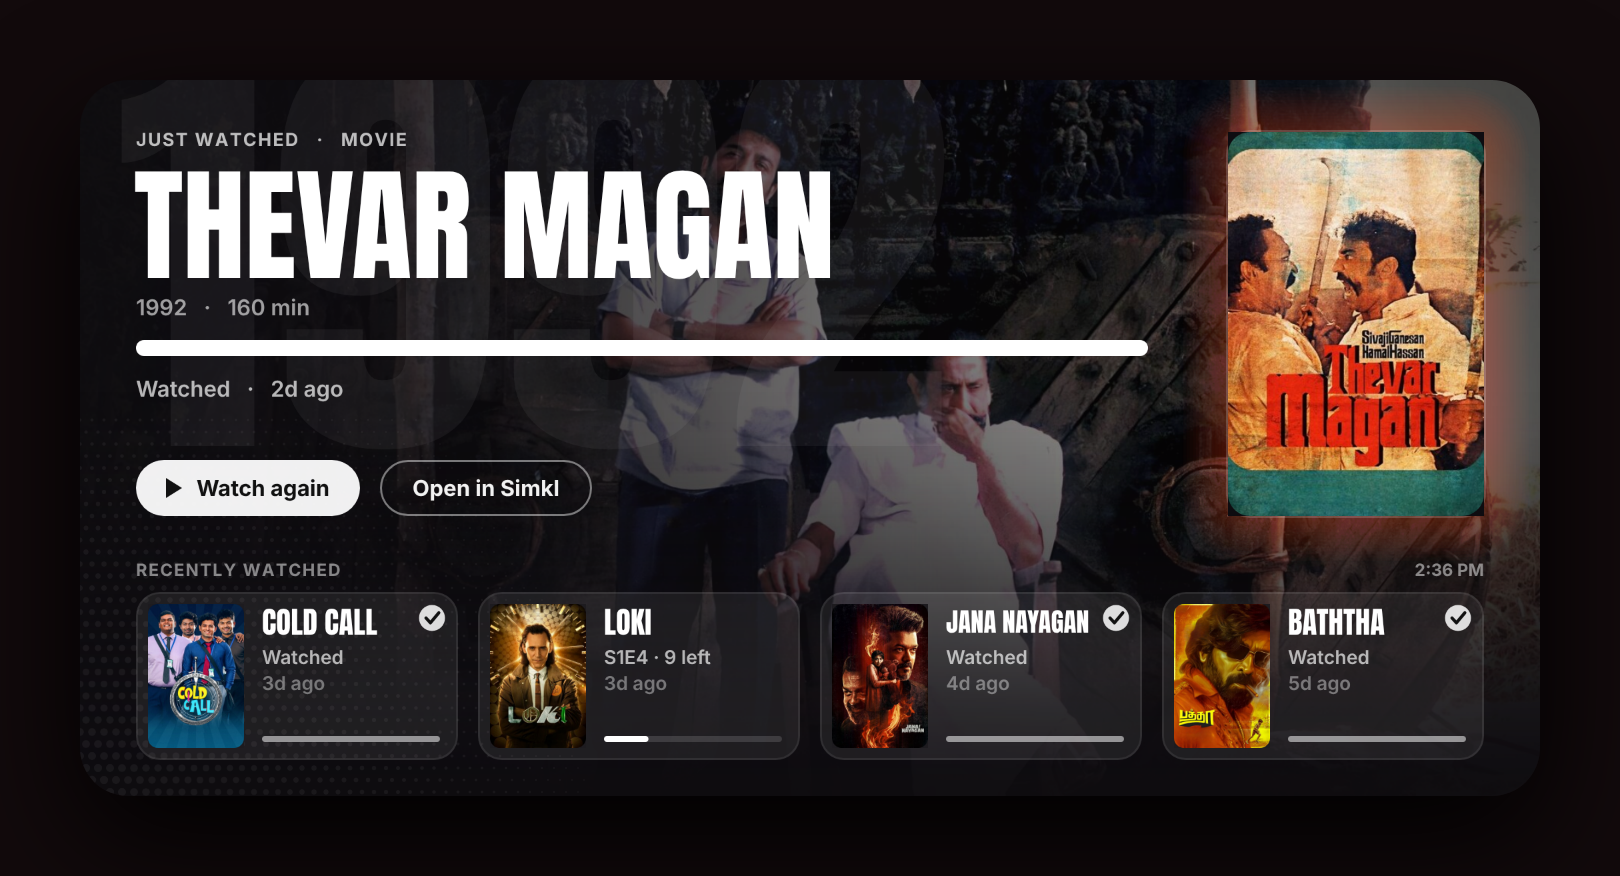
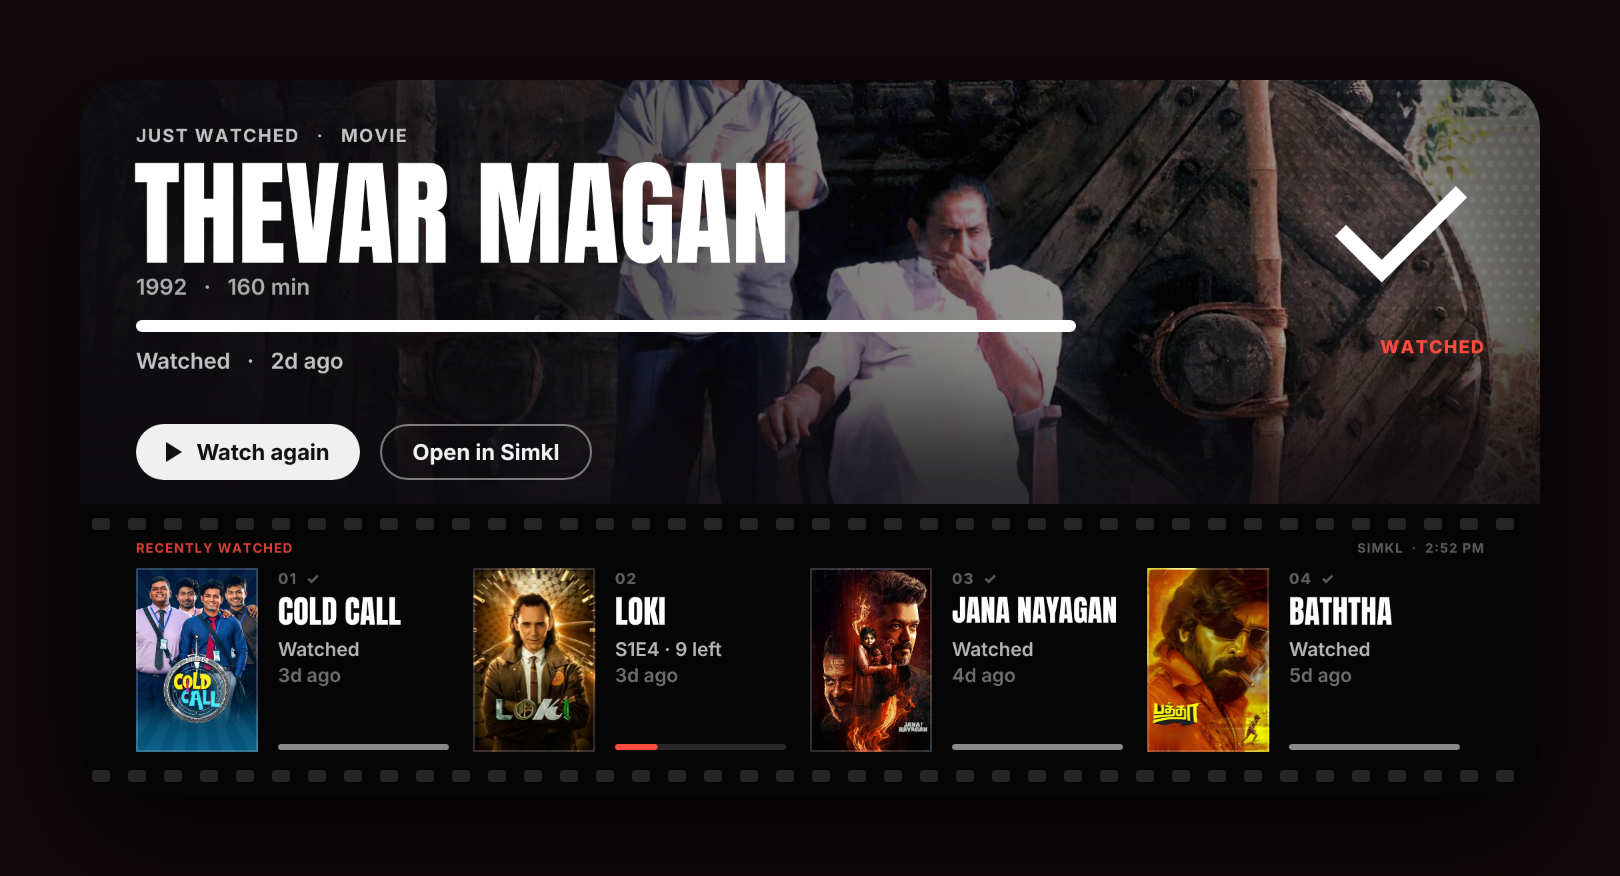
Simkl Big wide: film-strip redesign; Manga Big: square Mac layout with cover cards
Simkl: the backdrop is the hero with a giant % on the right, and recently
watched runs along a film strip (sprocket holes, numbered frames). Posters have
hard edges now: Scriptable can't clip, and faked rounded corners showed as dark
wedges over the backdrop. Manga: the Mac draws large widgets square, which
cropped the Read button; the Mac now gets a 364x364 layout, the button sits by
the release rhythm, and the other series are full cover cards.

Claude-Session: https://claude.ai/code/session_01PXGdQy46T6wRnRrF1gL8cR

diff --git a/scriptable/Simkl Big.js b/scriptable/Simkl Big.js
@@ -220,9 +220,11 @@ function drawBackdrop(ctx, hero, w, heroH, fadeFrom) {
 }
 
 function drawPoster(ctx, img, x, y, w, h) {
-  rounded(ctx, x - 1, y - 1, w + 2, h + 2, 11, white(0.14));
-  if (img) { CORNER_BG = col(BG); ctx.drawImageInRect(cover(img, w, h, 10, 0.3), new Rect(x, y, w, h)); }
-  else rounded(ctx, x, y, w, h, 10, col("#2a2630"));
+  // hard edges: Scriptable can't clip, and faked rounded corners show as dark wedges over the backdrop
+  ctx.setFillColor(col("#000000", 0.35)); ctx.fillRect(new Rect(x + 3, y + 5, w, h));
+  if (img) ctx.drawImageInRect(cover(img, w, h, 0, 0.3), new Rect(x, y, w, h));
+  else { ctx.setFillColor(col("#2a2630")); ctx.fillRect(new Rect(x, y, w, h)); }
+  ctx.setStrokeColor(white(0.22)); ctx.setLineWidth(1); ctx.strokeRect(new Rect(x + 0.5, y + 0.5, w - 1, h - 1));
 }
 
 function drawKicker(ctx, hero, x, y) {
@@ -350,7 +352,7 @@ function drawLarge(hero, rows, updated) {
   return ctx.getImage();
 }
 
-// ---------- EXTRA LARGE ~730 × 358 (wide; Mac desktop / iPad) — poster style ----------
+// ---------- EXTRA LARGE ~730 × 358 (wide; Mac desktop / iPad) — film strip ----------
 const XW = 730, XH = 358, XPAD = 28;
 const DISPLAY = "Futura-CondensedExtraBold";        // poster type (built into iOS)
 const display = (size) => new Font(DISPLAY, size);
@@ -400,107 +402,104 @@ function drawXL(hero, rows, updated) {
   const ctx = newCtx(XW, XH);
   ctx.opaque = true;
   ctx.setFillColor(col(BG)); ctx.fillRect(new Rect(0, 0, XW, XH));
+  const STRIP_Y = 212;
 
-  // full-bleed backdrop, dark on the left and along the bottom
+  // the backdrop is the hero: full bleed, drawn straight in (the canvas edge crops it)
   if (hero.backdrop) {
-    // full-bleed, drawn straight in: the canvas edge crops it, so no second full-size copy (memory)
-    const b = hero.backdrop, sc = Math.max(XW / b.size.width, XH / b.size.height), dw = b.size.width * sc, dh = b.size.height * sc;
-    ctx.drawImageInRect(b, new Rect((XW - dw) / 2, (XH - dh) * (hero.fanartReal ? 0.6 : 0.35), dw, dh));
-    ctx.setFillColor(col(BG, 0.32)); ctx.fillRect(new Rect(0, 0, XW, XH));
-    eased(ctx, 0, 0, 600, XH, "h", 0.97, 0);
-    eased(ctx, 0, 150, XW, XH - 150, "v", 0, 0.97);
+    const b = hero.backdrop, sc = Math.max(XW / b.size.width, STRIP_Y / b.size.height), dw = b.size.width * sc, dh = b.size.height * sc;
+    ctx.drawImageInRect(b, new Rect((XW - dw) / 2, (STRIP_Y - dh) * (hero.fanartReal ? 0.55 : 0.35), dw, dh));
+    ctx.setFillColor(col(BG, 0.28)); ctx.fillRect(new Rect(0, 0, XW, STRIP_Y));
+    eased(ctx, 0, 0, 520, STRIP_Y, "h", 0.95, 0);
+    eased(ctx, 0, 120, XW, STRIP_Y - 120, "v", 0, 0.75);
   }
-  screentone(ctx, 0, 170, 300, 188, 0, XH, 300, 2.2, white(0.05));
+  screentone(ctx, 420, 0, 310, 120, XW, 0, 260, 2.2, white(0.07));
 
-  // poster on the right with a red glow
-  const PW = 128, PH = 192, PX = XW - XPAD - PW, PY = 26;
-  for (let i = 14; i >= 1; i--) rounded(ctx, PX - i * 1.6, PY - i * 1.6, PW + i * 3.2, PH + i * 3.2, 12 + i * 1.6, col(ACCENT, 0.022));
-  rounded(ctx, PX - 1, PY - 1, PW + 2, PH + 2, 12, white(0.18));
-  if (hero.img) { CORNER_BG = col(BG); ctx.drawImageInRect(cover(hero.img, PW, PH, 11, 0.3), new Rect(PX, PY, PW, PH)); }
-  else rounded(ctx, PX, PY, PW, PH, 11, col("#2a2630"));
-
-  // giant ghost number behind the text: % watched, or the year for a finished movie
-  const ghost = hero.finished ? String(hero.year || "") : String(Math.round(pct(hero) * 100));
-  ctx.setFont(display(230)); ctx.setTextColor(white(0.05));
-  ctx.drawText(ghost, new Point(XPAD - 10, -36));
-
-  const TX = XPAD, TW = PX - 40 - TX;
+  const TX = XPAD, TW = 470;
   // kicker
   const typ = hero.kind === "movie" ? "MOVIE" : hero.kind === "anime" ? "ANIME" : "TV SERIES";
   const kick = (hero.finished ? (hero.kind === "movie" ? "JUST WATCHED" : "JUST FINISHED") : "NOW WATCHING") + "   ·   " + typ;
   let kx = TX;
-  if (!hero.finished) { dot(ctx, TX + 3.5, 30, 3.5, col(ACCENT)); kx = TX + 12; }
-  ctx.setFont(Font.boldSystemFont(9)); ctx.setTextColor(white(0.72)); ctx.setTextAlignedLeft();
-  ctx.drawText(track(kick), new Point(kx, 24.5));
+  if (!hero.finished) { dot(ctx, TX + 3.5, 28, 3.5, col(ACCENT)); kx = TX + 12; }
+  ctx.setFont(Font.boldSystemFont(9)); ctx.setTextColor(white(0.75)); ctx.setTextAlignedLeft();
+  ctx.drawText(track(kick), new Point(kx, 22.5));
 
   // title in poster type
-  const lay = condLayout(hero.title.toUpperCase(), TW, [62, 56, 50, 44, 38, 34]);
-  let y = 40;
+  const lay = condLayout(hero.title.toUpperCase(), TW, [58, 52, 46, 40, 34]);
+  let y = 36;
   ctx.setFont(display(lay.fs)); ctx.setTextColor(white(1));
-  for (const ln of lay.lines) { ctx.drawText(ln, new Point(TX - 1, y)); y += lay.fs * 1.02; }
+  for (const ln of lay.lines) { ctx.drawText(ln, new Point(TX - 1, y)); y += lay.fs * 1.0; }
   const meta = [hero.year, hero.kind === "movie" ? (hero.runtime ? hero.runtime + " min" : null) : hero.total ? hero.total + " episodes" : null,
     hero.kind !== "movie" && hero.runtime ? hero.runtime + " min each" : null].filter(Boolean).join("   ·   ");
-  ctx.setFont(Font.semiboldSystemFont(11)); ctx.setTextColor(white(0.6));
-  ctx.drawText(fitLine(meta, 11, TW - 90), new Point(TX, y + 4));
+  ctx.setFont(Font.semiboldSystemFont(11)); ctx.setTextColor(white(0.65));
+  ctx.drawText(fitLine(meta, 11, TW), new Point(TX, y + 3));
 
-  // progress: numbered episode ticks (or a bar), caption, and the % in poster type
-  const PRY = Math.max(128, y + 24), n = hero.total, p = pct(hero);
-  if (!hero.finished) {
-    ctx.setTextAlignedRight(); ctx.setFont(display(30)); ctx.setTextColor(white(1));
-    ctx.drawTextInRect(Math.round(p * 100) + "%", new Rect(TX + TW - 120, PRY - 36, 120, 34)); ctx.setTextAlignedLeft();
-  }
-  if (hero.kind !== "movie" && n && n <= 30) {
+  // progress: numbered ticks for shows, a line for movies
+  const PRY = Math.max(118, y + 22), n = hero.total, p = pct(hero);
+  const hasTicks = hero.kind !== "movie" && n && n <= 30, hasNums = hasTicks && n <= 24;
+  if (hasTicks) {
     const lit = hero.finished ? n : Math.min(n, hero.watched || 0), gap = n > 20 ? 2.5 : 4, tw = (TW - gap * (n - 1)) / n;
     for (let i = 0; i < n; i++) {
       const x = TX + i * (tw + gap);
-      if (i === lit && !hero.finished) strokeRounded(ctx, x + 0.75, PRY + 0.75, tw - 1.5, 10.5, 2.5, col(ACCENT), 1.5);
-      else rounded(ctx, x, PRY, tw, 12, 2.8, white(i < lit ? 1 : 0.14));
-      if (n <= 24) {
+      if (i === lit && !hero.finished) strokeRounded(ctx, x + 0.75, PRY + 0.75, tw - 1.5, 9.5, 2.5, col(ACCENT), 1.5);
+      else rounded(ctx, x, PRY, tw, 11, 2.8, white(i < lit ? 1 : 0.16));
+      if (hasNums) {
         ctx.setTextAlignedCenter(); ctx.setFont(Font.boldSystemFont(7.5));
         ctx.setTextColor(i === lit && !hero.finished ? col(ACCENT) : white(i < lit ? 0.6 : 0.3));
-        ctx.drawTextInRect(String(i + 1), new Rect(x, PRY + 16, tw, 10)); ctx.setTextAlignedLeft();
+        ctx.drawTextInRect(String(i + 1), new Rect(x, PRY + 15, tw, 10)); ctx.setTextAlignedLeft();
       }
     }
   } else {
-    rounded(ctx, TX, PRY + 2, TW, 8, 4, white(0.14));
-    if (p > 0) rounded(ctx, TX, PRY + 2, Math.max(8, TW * p), 8, 4, white(1));
+    rounded(ctx, TX, PRY + 2, TW, 6, 3, white(0.16));
+    if (p > 0) rounded(ctx, TX, PRY + 2, Math.max(6, TW * p), 6, 3, white(1));
   }
   const cap = [hero.finished ? (hero.kind === "movie" ? "Watched" : "Series completed") : sub(hero), ago(hero.last)].filter(Boolean).join("   ·   ");
-  const hasNums = hero.kind !== "movie" && n && n <= 24;
-  ctx.setFont(Font.semiboldSystemFont(11)); ctx.setTextColor(white(0.7));
-  ctx.drawText(fitLine(cap, 11, TW), new Point(TX, PRY + (hasNums ? 31 : 20)));
+  ctx.setFont(Font.semiboldSystemFont(11)); ctx.setTextColor(white(0.75));
+  ctx.drawText(fitLine(cap, 11, TW), new Point(TX, PRY + (hasNums ? 29 : 16)));
 
   // buttons
-  const BY = PY + PH - 28;
+  const BY = STRIP_Y - 40;
   const pw = drawPill(ctx, hero, TX, BY);
   outlinePill(ctx, "Open in Simkl", TX + pw + 10, BY);
 
-  // recently watched strip
-  const LY = PY + PH + 22;
-  ctx.setFont(Font.boldSystemFont(8.5)); ctx.setTextColor(white(0.5));
-  ctx.drawText(track("RECENTLY WATCHED"), new Point(XPAD, LY));
-  ctx.setTextAlignedRight(); ctx.drawTextInRect(updated, new Rect(XW - XPAD - 120, LY, 120, 12)); ctx.setTextAlignedLeft();
-  const GY = LY + 16, GAP = 10, CW = (XW - XPAD * 2 - GAP * 3) / 4, CH = XH - 18 - GY;
+  // giant number on the right: % watched, or ✓ for something finished
+  const big = hero.finished ? "✓" : Math.round(p * 100) + "%";
+  ctx.setTextAlignedRight(); ctx.setFont(display(96)); ctx.setTextColor(white(1));
+  ctx.drawTextInRect(big, new Rect(XW - XPAD - 240, 18, 240, 110));
+  ctx.setFont(Font.heavySystemFont(9)); ctx.setTextColor(col(ACCENT));
+  ctx.drawTextInRect(track(hero.finished ? (hero.kind === "movie" ? "WATCHED" : "COMPLETE") : "WATCHED SO FAR"), new Rect(XW - XPAD - 240, 128, 240, 12));
+  ctx.setTextAlignedLeft();
+
+  // ---- film strip: the recently watched, as frames on a reel ----
+  ctx.setFillColor(col("#050506")); ctx.fillRect(new Rect(0, STRIP_Y, XW, XH - STRIP_Y));
+  const HOLE_W = 9, HOLE_H = 6, HOLE_GAP = 9;
+  for (const hy of [STRIP_Y + 7, XH - 13]) for (let hx = 6; hx < XW - 6; hx += HOLE_W + HOLE_GAP) rounded(ctx, hx, hy, HOLE_W, HOLE_H, 1.5, white(0.13));
+  // edge markings, like printed film stock
+  ctx.setFont(Font.boldSystemFont(6.5)); ctx.setTextColor(col(ACCENT, 0.85));
+  ctx.drawText(track("RECENTLY WATCHED"), new Point(XPAD, STRIP_Y + 18));
+  ctx.setTextAlignedRight(); ctx.setTextColor(white(0.35));
+  ctx.drawTextInRect(track("SIMKL  ·  " + updated), new Rect(XW - XPAD - 200, STRIP_Y + 18, 200, 9)); ctx.setTextAlignedLeft();
+
+  const FY = STRIP_Y + 32, FH = XH - 22 - FY, UNIT = (XW - XPAD * 2) / 4;
   rows.slice(0, 4).forEach((s, i) => {
-    const cx = XPAD + i * (CW + GAP), cy = GY;
-    rounded(ctx, cx, cy, CW, CH, 12, white(0.075));
-    strokeRounded(ctx, cx + 0.5, cy + 0.5, CW - 1, CH - 1, 11.5, white(0.08), 1);
-    const th = CH - 12, tw = Math.round(th * 2 / 3);
-    if (s.img) { CORNER_BG = col("#1d1b1f"); ctx.drawImageInRect(cover(s.img, tw, th, 5, 0.3), new Rect(cx + 6, cy + 6, tw, th)); }
-    else rounded(ctx, cx + 6, cy + 6, tw, th, 5, col("#2a2630"));
-    const x2 = cx + 6 + tw + 9, w2 = cx + CW - 9 - x2;
-    const ct = s.title.toUpperCase(), cw = w2 - (s.finished ? 16 : 0);
-    let cfs = 15; while (cfs > 12 && condW(ct, cfs) > cw) cfs -= 0.5;          // shrink a little before cutting
+    const ux = XPAD + i * UNIT, fw = Math.round(FH * 2 / 3);
+    if (s.img) ctx.drawImageInRect(cover(s.img, fw, FH, 0, 0.3), new Rect(ux, FY, fw, FH));
+    else { ctx.setFillColor(col("#2a2630")); ctx.fillRect(new Rect(ux, FY, fw, FH)); }
+    ctx.setStrokeColor(white(0.18)); ctx.setLineWidth(1); ctx.strokeRect(new Rect(ux + 0.5, FY + 0.5, fw - 1, FH - 1));
+    const x2 = ux + fw + 10, w2 = UNIT - fw - 22;
+    // frame number, film style
+    ctx.setFont(Font.heavySystemFont(7.5)); ctx.setTextColor(white(0.35));
+    ctx.drawText(track(String(i + 1).padStart(2, "0") + (s.finished ? "  ✓" : "")), new Point(x2, FY + 1));
+    const ct = s.title.toUpperCase();
+    let cfs = 16; while (cfs > 12 && condW(ct, cfs) > w2) cfs -= 0.5;
     ctx.setFont(display(cfs)); ctx.setTextColor(white(1));
-    ctx.drawText(fitCond(ct, cfs, cw), new Point(x2, cy + 7 + (15 - cfs) / 2));
+    ctx.drawText(fitCond(ct, cfs, w2), new Point(x2, FY + 13));
     const line1 = s.kind === "movie" ? (s.finished ? "Watched" : Math.round(pct(s) * 100) + "% watched") : sub(s);
-    ctx.setFont(Font.semiboldSystemFont(9.5)); ctx.setTextColor(white(0.68));
-    ctx.drawText(fitLine(line1, 9.5, w2), new Point(x2, cy + 27));
-    ctx.setTextColor(white(0.4));
-    ctx.drawText(fitLine(ago(s.last), 9.5, w2), new Point(x2, cy + 40));
-    rounded(ctx, x2, cy + CH - 12, w2, 3, 1.5, white(0.14));
-    rounded(ctx, x2, cy + CH - 12, Math.max(3, w2 * pct(s)), 3, 1.5, white(s.finished ? 0.45 : 1));
-    if (s.finished) drawCheck(ctx, cx + CW - 13, cy + 13);
+    ctx.setFont(Font.semiboldSystemFont(9.5)); ctx.setTextColor(white(0.7));
+    ctx.drawText(fitLine(line1, 9.5, w2), new Point(x2, FY + 35));
+    ctx.setTextColor(white(0.42));
+    ctx.drawText(fitLine(ago(s.last), 9.5, w2), new Point(x2, FY + 48));
+    rounded(ctx, x2, FY + FH - 4, w2, 3, 1.5, white(0.14));
+    rounded(ctx, x2, FY + FH - 4, Math.max(3, w2 * pct(s)), 3, 1.5, s.finished ? white(0.45) : col(ACCENT));
   });
   return ctx.getImage();
 }

diff --git a/scriptable/Manga Big.js b/scriptable/Manga Big.js
@@ -176,30 +176,28 @@ function rhythm(chapters) {
   return weeks;
 }
 
-// ---------- LARGE 364 × 382 ----------
-const W = 364, H = 382, PAD = 18;
+// ---------- LARGE: 364 × 382 on iPhone, square 364 × 364 on the Mac (which draws large widgets square) ----------
+const W = 364, H = Device.isPhone() ? 382 : 364, PAD = 18;
 
 function drawLarge(main, others, updated) {
   const ctx = newCtx(W, H);
   ctx.opaque = true;
   ctx.setFillColor(col(BG)); ctx.fillRect(new Rect(0, 0, W, H));
   const latest = main.chapters[0];
+  const CARD_Y = 222, CARD_H = H - PAD - CARD_Y;
 
   // cover art bleeding in from the right, fading into the page
-  const CW = 236, CX = W - CW, CH = 300;
+  const CW = 214, CX = W - CW, CH = CARD_Y - 6;
   if (main.img) {
-    ctx.drawImageInRect(cover(main.img, CW, CH, 0, 0.15), new Rect(CX, 0, CW, CH));
-    shade(ctx, CX, 0, 150, CH, "h", 1, 0, BG, true);
-    shade(ctx, CX, 150, CW, CH - 150, "v", 0, 1, BG, true);
-    ctx.setFillColor(col(BG, 0.12)); ctx.fillRect(new Rect(CX, 0, CW, CH));
+    ctx.drawImageInRect(cover(main.img, CW, CH, 0, 0.12), new Rect(CX, 0, CW, CH));
+    shade(ctx, CX, 0, 140, CH, "h", 1, 0, BG, true);
+    shade(ctx, CX, CH - 80, CW, 80, "v", 0, 1, BG, true);
+    ctx.setFillColor(col(BG, 0.1)); ctx.fillRect(new Rect(CX, 0, CW, CH));
   }
 
   // screentone + giant ghost chapter number
-  screentone(ctx, 0, 150, 220, 232, 0, H, 230, 2.1, white(0.06));
-  if (latest) {
-    ctx.setFont(display(150)); ctx.setTextColor(white(0.07));
-    ctx.drawText(fmtCh(latest.num), new Point(PAD - 6, 48));
-  }
+  screentone(ctx, 0, 110, 200, 110, 0, 220, 200, 2.1, white(0.06));
+  if (latest) { ctx.setFont(display(140)); ctx.setTextColor(white(0.06)); ctx.drawText(fmtCh(latest.num), new Point(PAD - 6, 52)); }
 
   // kicker
   const fresh = latest && daysAgo(latest.date) < NEW_DAYS;
@@ -210,30 +208,29 @@ function drawLarge(main, others, updated) {
   ctx.setFont(Font.boldSystemFont(8.5)); ctx.setTextColor(white(hot ? 0.85 : 0.6));
   ctx.drawText(track(kick), new Point(kx, PAD));
 
-  // title in poster type
-  const TW = 190, title = main.name.toUpperCase();
-  let tfs = 34; while (tfs > 20 && textWidth(title, tfs, true) > TW) tfs -= 1;
+  // title + author
+  const TW = 196, title = main.name.toUpperCase();
+  let tfs = 32; while (tfs > 20 && textWidth(title, tfs, true) > TW) tfs -= 1;
   ctx.setFont(display(tfs)); ctx.setTextColor(white(1));
-  ctx.drawText(fitLine(title, tfs, TW, true), new Point(PAD, PAD + 13));
-  let y = PAD + 13 + tfs * 1.12;
+  ctx.drawText(fitLine(title, tfs, TW, true), new Point(PAD, PAD + 12));
   if (main.author) {
     ctx.setFont(Font.semiboldSystemFont(9.5)); ctx.setTextColor(white(0.5));
-    ctx.drawText(fitLine(main.author, 9.5, TW), new Point(PAD, y));
+    ctx.drawText(fitLine(main.author, 9.5, TW), new Point(PAD, PAD + 13 + tfs * 1.08));
   }
 
   // chapter number, big
   if (latest) {
-    const ny = PAD + 72;
+    const ny = 86;
     ctx.setFont(Font.heavySystemFont(9)); ctx.setTextColor(col(ACCENT));
     ctx.drawText(track("CHAPTER"), new Point(PAD, ny));
-    ctx.setFont(display(62)); ctx.setTextColor(white(1));
-    ctx.drawText(fmtCh(latest.num), new Point(PAD - 2, ny + 8));
+    ctx.setFont(display(56)); ctx.setTextColor(white(1));
+    ctx.drawText(fmtCh(latest.num), new Point(PAD - 2, ny + 7));
     ctx.setFont(Font.semiboldSystemFont(10.5)); ctx.setTextColor(white(0.65));
-    ctx.drawText(DAYS[latest.date.getDay()] + ", " + shortDate(latest.date) + "  ·  " + ago(latest.date), new Point(PAD, ny + 84));
+    ctx.drawText(DAYS[latest.date.getDay()] + ", " + shortDate(latest.date) + "  ·  " + ago(latest.date), new Point(PAD, ny + 70));
   }
 
-  // 8-week release rhythm
-  const RY = PAD + 182, weeks = rhythm(main.chapters), SQ = 11, SG = 4;
+  // 8-week release rhythm + Read
+  const RY = 176, weeks = rhythm(main.chapters), SQ = 11, SG = 4;
   ctx.setFont(Font.boldSystemFont(7.5)); ctx.setTextColor(white(0.42));
   ctx.drawText(track("LAST 8 WEEKS"), new Point(PAD, RY));
   weeks.forEach((n, i) => {
@@ -241,43 +238,36 @@ function drawLarge(main, others, updated) {
     if (n > 0) rounded(ctx, x, yy, SQ, SQ, 2.5, last ? col(ACCENT) : white(0.9));
     else strokeRounded(ctx, x + 0.5, yy + 0.5, SQ - 1, SQ - 1, 2.2, white(last ? 0.5 : 0.22), 1);
   });
+  drawPill(ctx, "Read", PAD + 8 * (SQ + SG) + 10, RY + 4);
 
-  drawPill(ctx, "Read", W - PAD - 82, RY + 2);
-
-  // the rest of the list
-  const LY = RY + 40;
-  ctx.setFont(Font.boldSystemFont(8.5)); ctx.setTextColor(white(0.45));
-  ctx.drawText(track("ALSO READING"), new Point(PAD, LY));
-  ctx.setTextAlignedRight(); ctx.drawTextInRect(updated, new Rect(W - PAD - 120, LY, 120, 12)); ctx.setTextAlignedLeft();
-  const RG = 8, RY0 = LY + 16, RH = (H - PAD - RY0 - RG) / 2;
+  // the rest of the list: big cover cards, cover fills the card, text over a dark fade
+  const GAP = 10, CDW = (W - PAD * 2 - GAP) / 2;
   others.slice(0, 2).forEach((s, i) => {
-    const x = PAD, yy = RY0 + i * (RH + RG), w = W - PAD * 2;
-    rounded(ctx, x, yy, w, RH, 12, white(0.07));
-    strokeRounded(ctx, x + 0.5, yy + 0.5, w - 1, RH - 1, 11.5, white(0.07), 1);
-    const th = RH - 10, tw = Math.round(th * 2 / 3);
-    if (s.img) { CORNER_BG = col("#1c1a1e"); ctx.drawImageInRect(cover(s.img, tw, th, 5, 0.15), new Rect(x + 5, yy + 5, tw, th)); }
-    else rounded(ctx, x + 5, yy + 5, tw, th, 5, col("#2a2630"));
-    const c = s.chapters[0], tx = x + 5 + tw + 10;
-    const isNew = c && daysAgo(c.date) < NEW_DAYS;
+    const x = PAD + i * (CDW + GAP), y = CARD_Y;
+    if (s.img) ctx.drawImageInRect(cover(s.img, CDW, CARD_H, 0, 0.18), new Rect(x, y, CDW, CARD_H));
+    else { ctx.setFillColor(col("#2a2630")); ctx.fillRect(new Rect(x, y, CDW, CARD_H)); }
+    shade(ctx, x, y + CARD_H * 0.3, CDW, CARD_H * 0.7, "v", 0, 0.94, BG, true);
+    ctx.setStrokeColor(white(0.16)); ctx.setLineWidth(1); ctx.strokeRect(new Rect(x + 0.5, y + 0.5, CDW - 1, CARD_H - 1));
+
+    const c = s.chapters[0], isNew = c && daysAgo(c.date) < NEW_DAYS;
     const badge = s.unread != null ? (s.unread > 0 ? fmtCh(s.unread) + " NEW" : "✓") : isNew ? "NEW" : "";
-    const bw = badge ? Math.max(26, textWidth(badge, 8.5) + 14) : 0;
-    ctx.setFont(display(15)); ctx.setTextColor(white(1));
-    ctx.drawText(fitLine(s.name.toUpperCase(), 15, x + w - tx - bw - 50, true), new Point(tx, yy + RH / 2 - 15));
-    ctx.setFont(Font.semiboldSystemFont(9.5)); ctx.setTextColor(white(0.55));
-    ctx.drawText(c ? ago(c.date) : "No chapters found", new Point(tx, yy + RH / 2 + 3));
-    // chapter number on the right, poster type
-    if (c) {
-      ctx.setTextAlignedRight(); ctx.setFont(display(20)); ctx.setTextColor(white(0.95));
-      ctx.drawTextInRect(fmtCh(c.num), new Rect(x + w - 12 - bw - (bw ? 8 : 0) - 60, yy + RH / 2 - 13, 60, 26));
-      ctx.setFont(Font.boldSystemFont(7)); ctx.setTextColor(white(0.4));
-      ctx.drawTextInRect(track("CH"), new Rect(x + w - 12 - bw - (bw ? 8 : 0) - 120, yy + RH / 2 - 3.5, 120 - textWidth(fmtCh(c.num), 20, true) - 4, 10));
-      ctx.setTextAlignedLeft();
-    }
     if (badge) {
-      const bx = x + w - 10 - bw, by = yy + RH / 2 - 9, lit = badge !== "✓";
-      if (lit) rounded(ctx, bx, by, bw, 18, 9, col(ACCENT)); else strokeRounded(ctx, bx + 0.5, by + 0.5, bw - 1, 17, 8.5, white(0.4), 1);
-      ctx.setTextAlignedCenter(); ctx.setFont(Font.heavySystemFont(8.5)); ctx.setTextColor(white(lit ? 1 : 0.7));
+      const bw = Math.max(30, textWidth(badge, 8.5) + 14), bx = x + CDW - 8 - bw, by = y + 8, lit = badge !== "✓";
+      rounded(ctx, bx, by, bw, 18, 9, lit ? col(ACCENT) : col(BG, 0.7));
+      ctx.setTextAlignedCenter(); ctx.setFont(Font.heavySystemFont(8.5)); ctx.setTextColor(white(lit ? 1 : 0.8));
       ctx.drawTextInRect(track(badge), new Rect(bx, by + 4, bw, 11)); ctx.setTextAlignedLeft();
+    }
+    const tx = x + 10, tw = CDW - 20, nm = s.name.toUpperCase();
+    let nfs = 17; while (nfs > 12 && textWidth(nm, nfs, true) > tw) nfs -= 0.5;
+    ctx.setFont(display(nfs)); ctx.setTextColor(white(1));
+    ctx.drawText(fitLine(nm, nfs, tw, true), new Point(tx, y + CARD_H - 50));
+    if (c) {
+      ctx.setFont(Font.boldSystemFont(7.5)); ctx.setTextColor(col(ACCENT));
+      ctx.drawText(track("CH"), new Point(tx, y + CARD_H - 21));
+      ctx.setFont(display(20)); ctx.setTextColor(white(1));
+      ctx.drawText(fmtCh(c.num), new Point(tx + 15, y + CARD_H - 30));
+      ctx.setFont(Font.semiboldSystemFont(9.5)); ctx.setTextColor(white(0.6));
+      ctx.setTextAlignedRight(); ctx.drawTextInRect(ago(c.date), new Rect(x, y + CARD_H - 22, CDW - 10, 12)); ctx.setTextAlignedLeft();
     }
   });
   return ctx.getImage();
